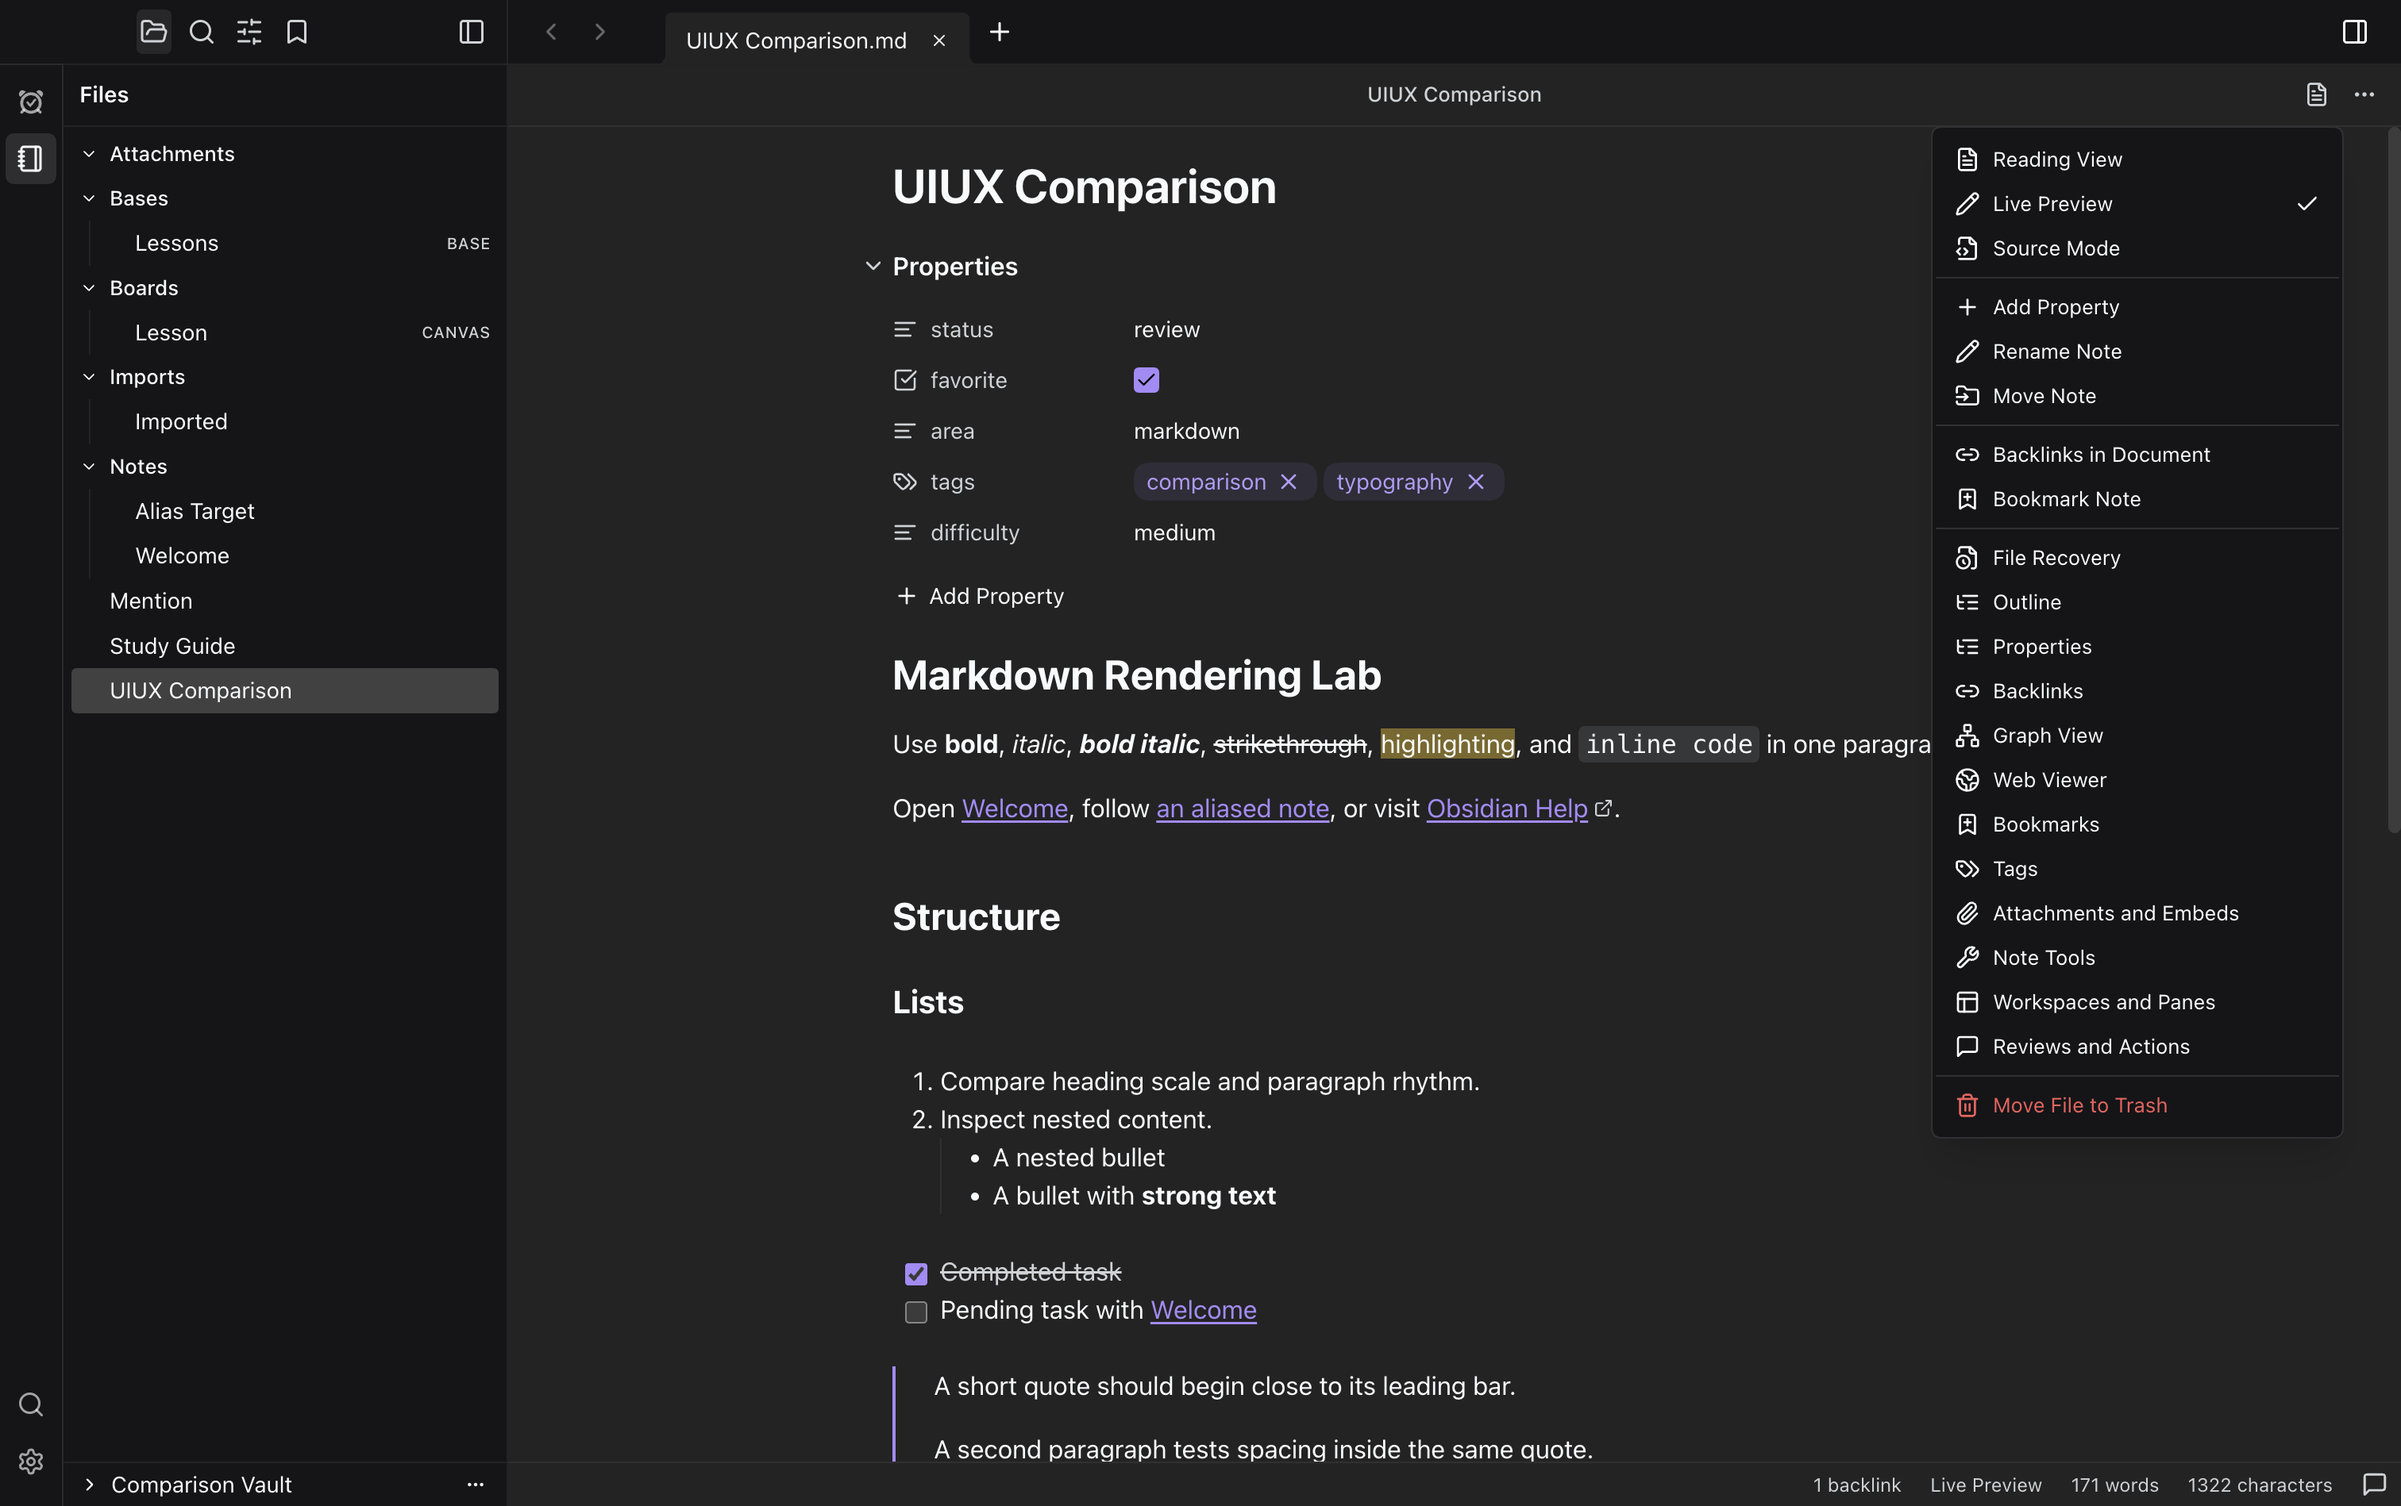
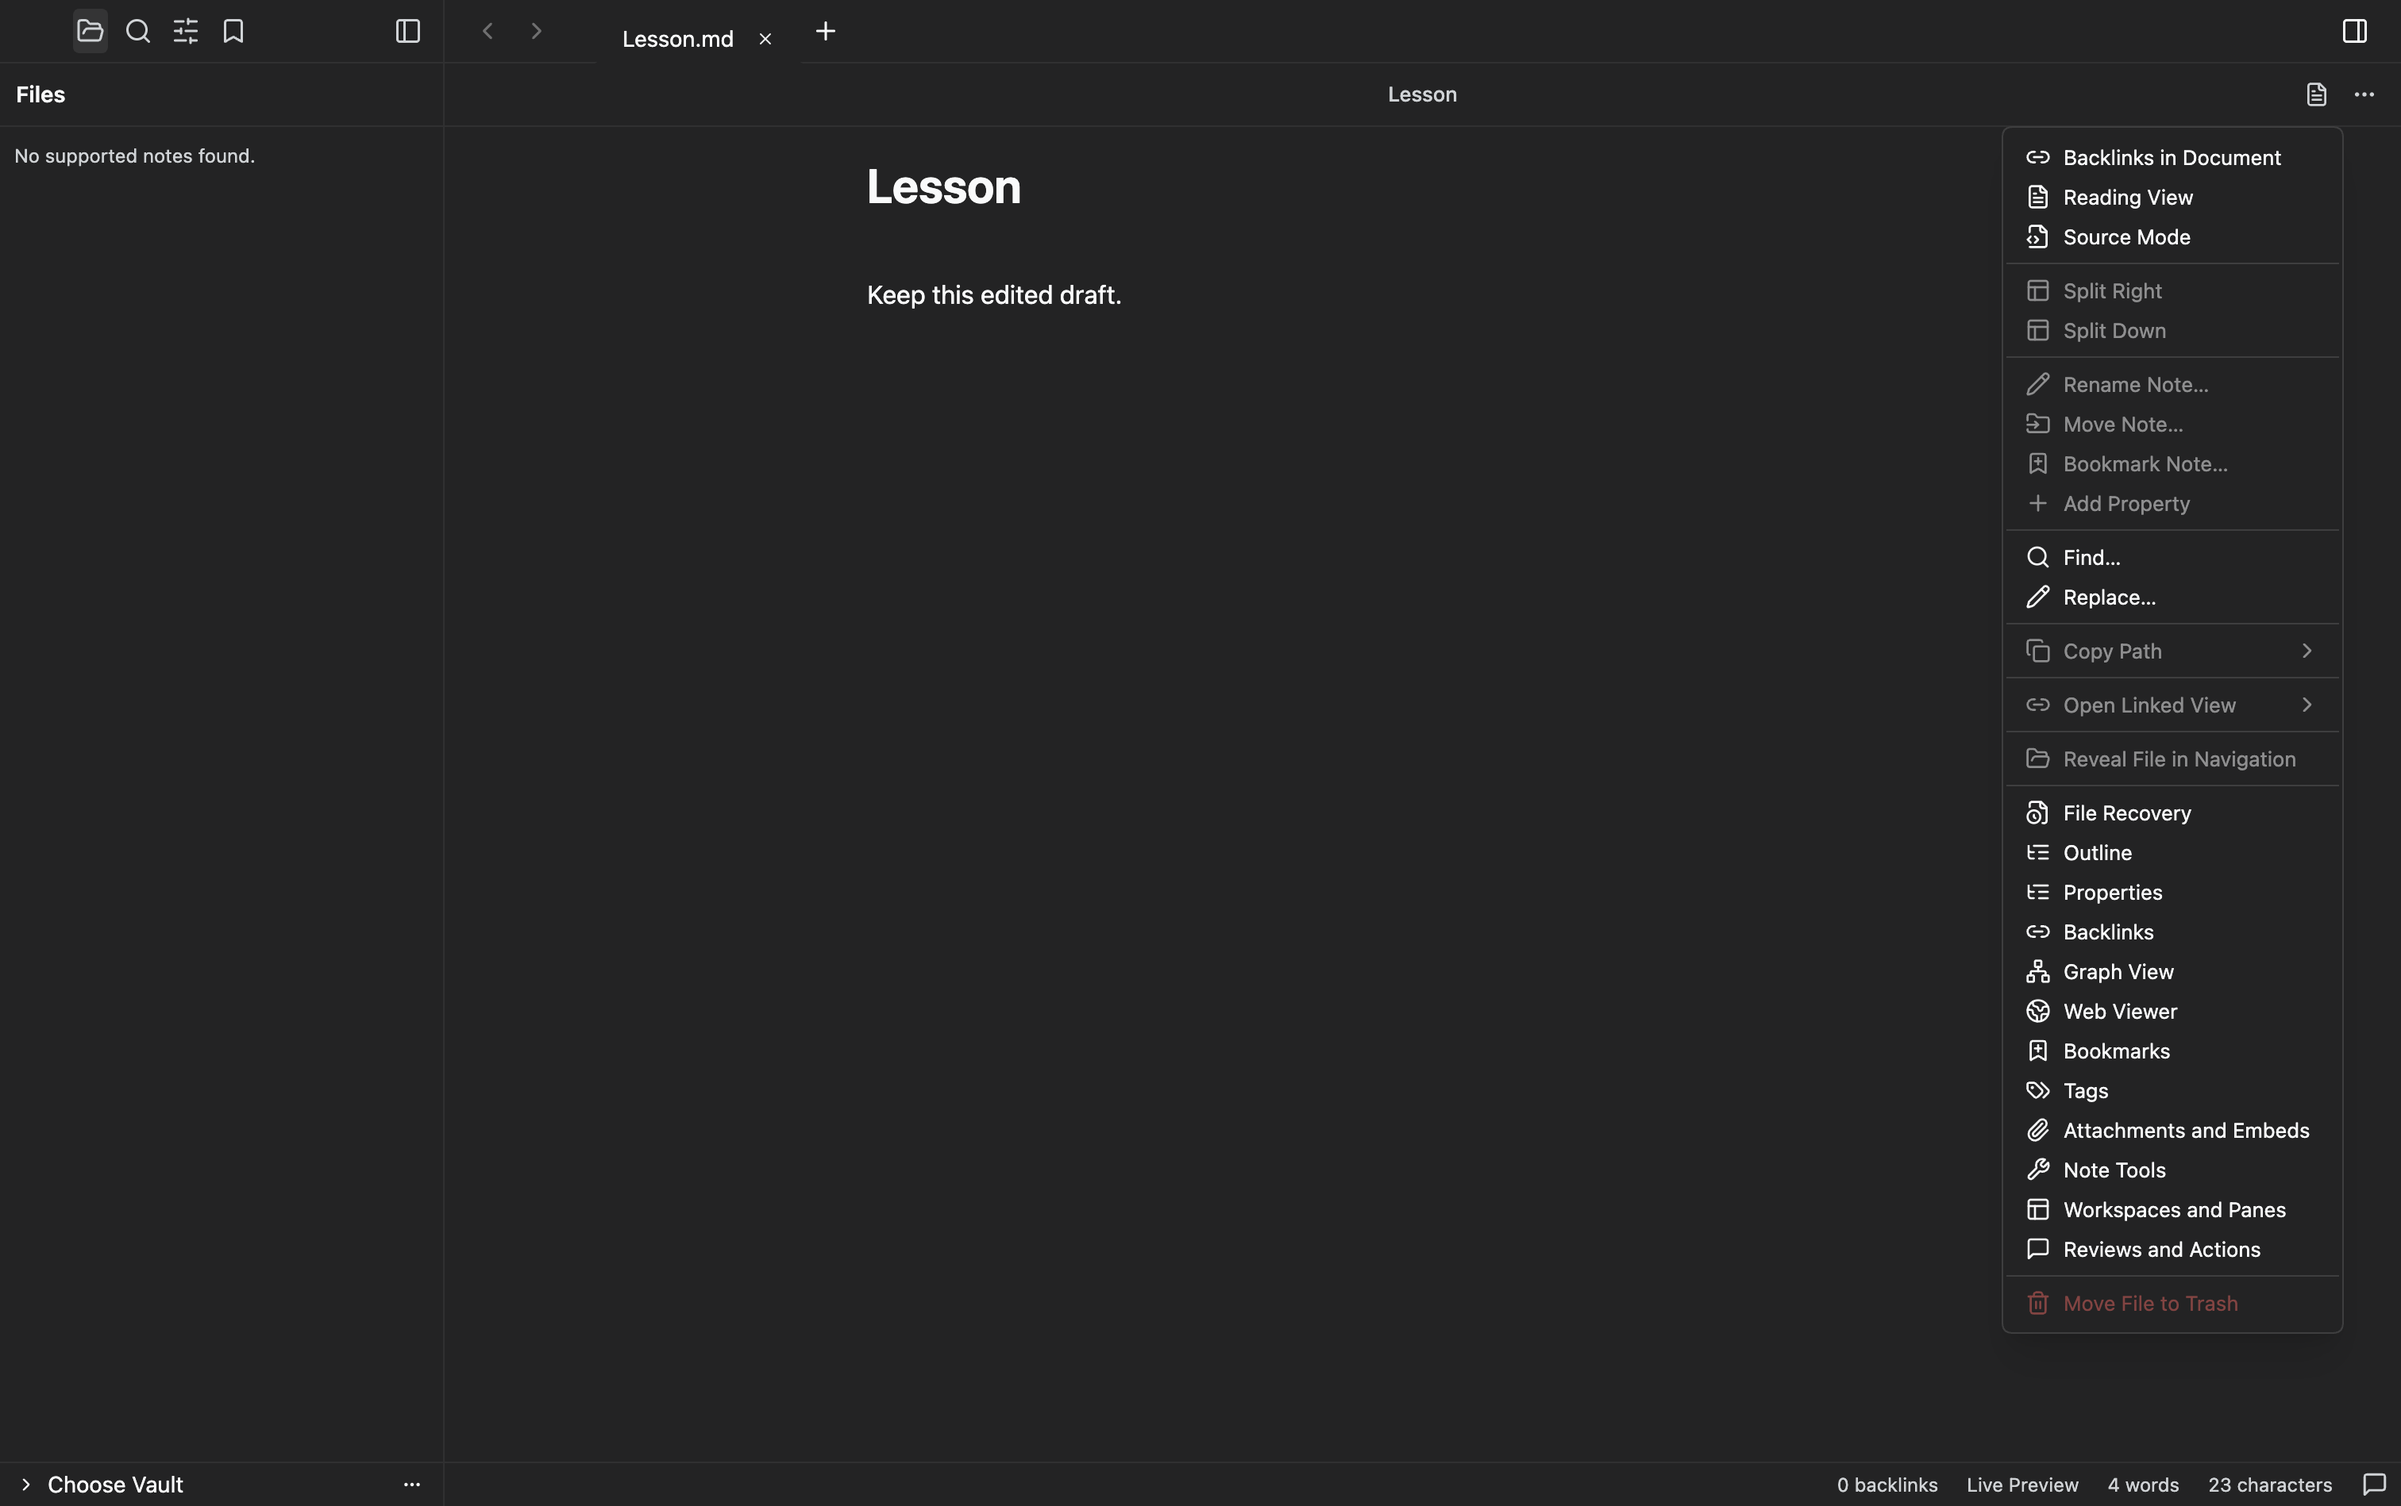
docs(tocktutor): refresh note actions menu screenshot

diff --git a/.agents/uiux/tocktutor/tocktutor.html b/.agents/uiux/tocktutor/tocktutor.html
@@ -129,7 +129,7 @@
     <div class="header-inner">
       <p class="eyebrow">Visual Design Audit · 55 Captures</p>
       <h1>TockTutor and Obsidian</h1>
-      <p class="intro">Fresh captures of TockTutor and installed Obsidian 1.13.7 using identical isolated comparison vaults. Note-based surfaces open <code>UIUX Comparison.md</code> with the exact <a href="shared-note.md">shared Markdown content</a>; attachments use <code>Notes/Welcome.md</code>, and Base and Canvas use the same <a href="../../../plugins/tocktutor/parity/fixtures/vault/">parity fixture files</a>. Search uses <code>Markdown</code> in both apps. The assistant pair uses empty conversations beside the same note, with Claudian 2.3.0 in Obsidian. Product-specific controls and catalogs remain genuine, not fabricated matches. See the <a href="../../../.beads/reports/tocktutor-content-alignment.md">capture proof and limitations</a>. Click an image for full resolution.</p>
+      <p class="intro">Fresh captures of TockTutor and installed Obsidian 1.13.7 using identical isolated comparison vaults. Except for the focused note-menu capture described below, note-based surfaces open <code>UIUX Comparison.md</code> with the exact <a href="shared-note.md">shared Markdown content</a>; attachments use <code>Notes/Welcome.md</code>, and Base and Canvas use the same <a href="../../../plugins/tocktutor/parity/fixtures/vault/">parity fixture files</a>. Search uses <code>Markdown</code> in both apps. The assistant pair uses empty conversations beside the same note, with Claudian 2.3.0 in Obsidian. Product-specific controls and catalogs remain genuine, not fabricated matches. See the <a href="../../../.beads/reports/tocktutor-content-alignment.md">capture proof and limitations</a>. Click an image for full resolution.</p>
       <div class="capture-standard">1512 × 949 CSS pixels · 2× scale · 3024 × 1898 output · Built-in Dark Theme · No Active Skin</div>
       <div class="legend" aria-label="Comparison legend">
         <span class="tt">TockTutor</span>
@@ -186,9 +186,10 @@
     </section>
 
     <section class="surface" id="note-actions">
-      <p class="section-number">Surface 05</p><h2>Note Actions Menu</h2><p class="section-note">Editor modes and note-level utilities in TockTutor’s overflow menu.</p>
+      <p class="section-number">Surface 05</p><h2>Note Actions Menu</h2><p class="section-note">Live Preview is the default editing style, not a menu choice. Reading View switches to reading; Source Mode toggles raw Markdown.</p>
+      <p class="fixture-proof"><strong>Focused Capture:</strong> The updated TockTutor route component and CodeMirror editor run in isolated Electron with a test note, not the shared comparison vault. Unwired fixture actions are disabled. Verified at 1512 × 949 CSS pixels and 2× scale, with the built-in dark theme, no active skin, and no runtime errors. The Obsidian reference is unchanged.</p>
       <div class="comparison">
-        <figure class="tocktutor"><figcaption><span class="caption-title">TockTutor · Note Actions</span><span class="badge">Current</span></figcaption><a class="screenshot-link" href="screenshots/tocktutor-note-actions-menu.png"><img src="screenshots/tocktutor-note-actions-menu.png" alt="TockTutor note actions menu"></a></figure>
+        <figure class="tocktutor"><figcaption><span class="caption-title">TockTutor · Note Actions</span><span class="badge">Focused Verification</span></figcaption><a class="screenshot-link" href="screenshots/tocktutor-note-actions-menu.png"><img src="screenshots/tocktutor-note-actions-menu.png" alt="TockTutor note actions menu with Reading View and Source Mode, without a Live Preview menu item"></a></figure>
         <figure class="obsidian"><figcaption><span class="caption-title">Obsidian · Note Actions</span><span class="badge">Reference</span></figcaption><a class="screenshot-link" href="screenshots/obsidian-note-actions.png"><img src="screenshots/obsidian-note-actions.png" alt="Obsidian note actions menu"></a></figure>
       </div>
     </section>
